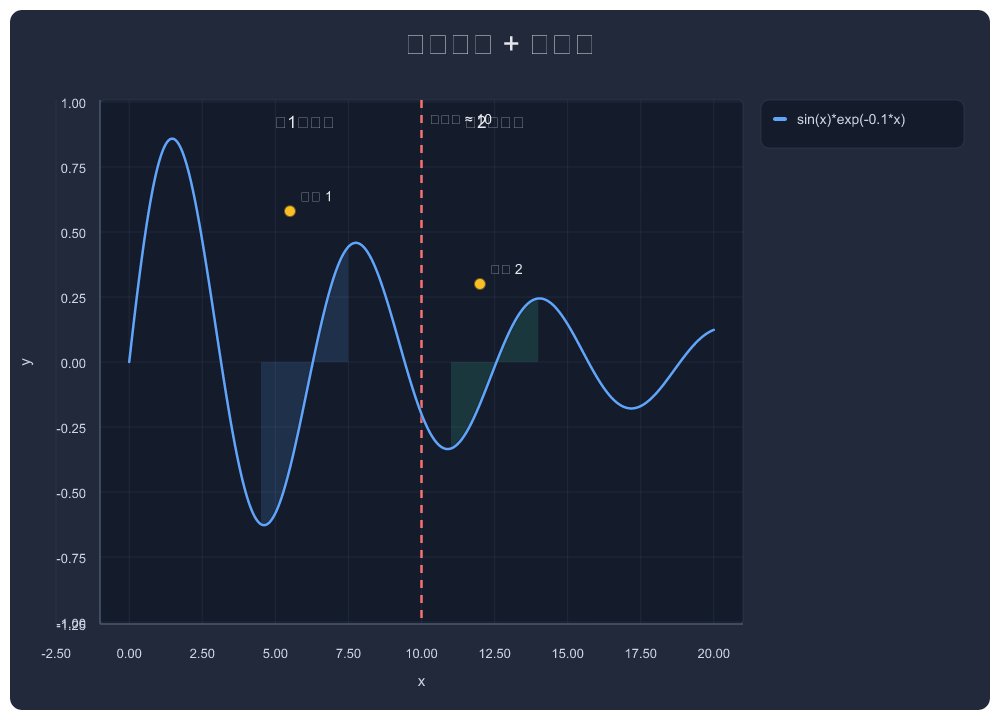
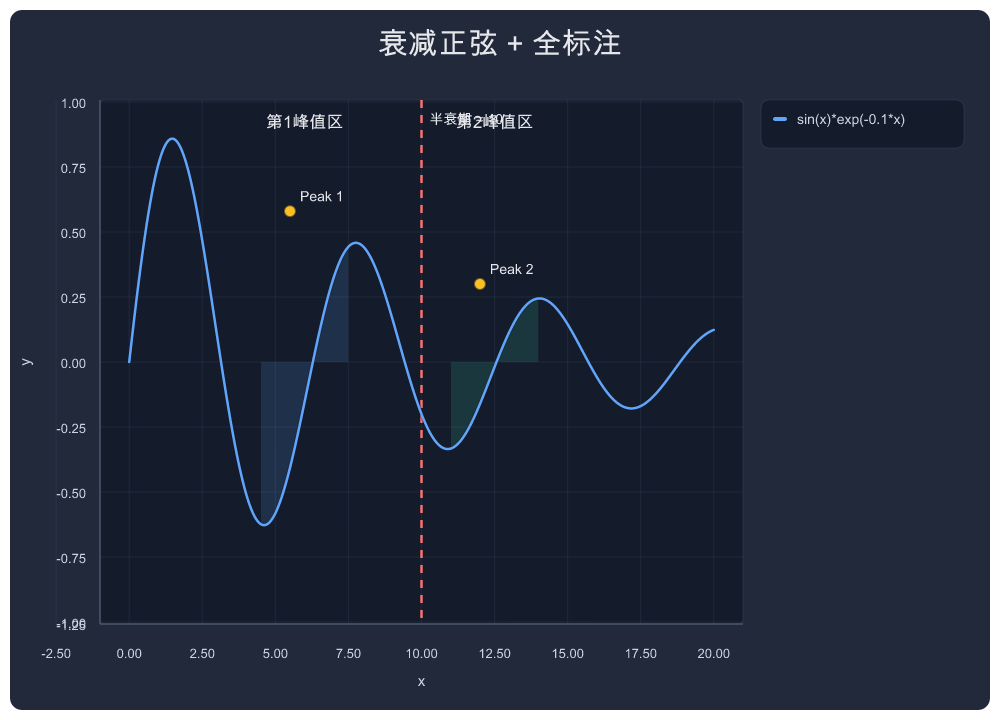
v0.4.14: CJK text-to-path + CN showcase regeneration
- pathifyCjkText: convert CJK <text> to <path> via opentype.js
- Font externalized to CF KV (GB2312 7565 glyphs)
- Bundle gzip: 1015KB (under 3MB CF free limit)
- Removed debug endpoints (/test-pathify, /debug-real-svg)
- Regenerated all 20 CN showcase images with correct CJK rendering

diff --git a/src/constants.ts b/src/constants.ts
@@ -3,7 +3,7 @@ export interface Env {
 }
 
 export const SERVER_NAME = "plot-mcp-worker";
-export const SERVER_VERSION = "0.4.13";
+export const SERVER_VERSION = "0.4.14";
 export const SHORT_LINK_PATH_PREFIX = "/s/";
 export const SHORT_LINK_TOKEN_LENGTH = 8;
 export const SHORT_LINK_TTL_SECONDS = 60 * 60 * 24 * 30;

diff --git a/src/render.ts b/src/render.ts
@@ -1104,3 +1104,4 @@ export async function renderPngResponse(svg: string, env: Env): Promise<Response
     },
   });
 }
+
